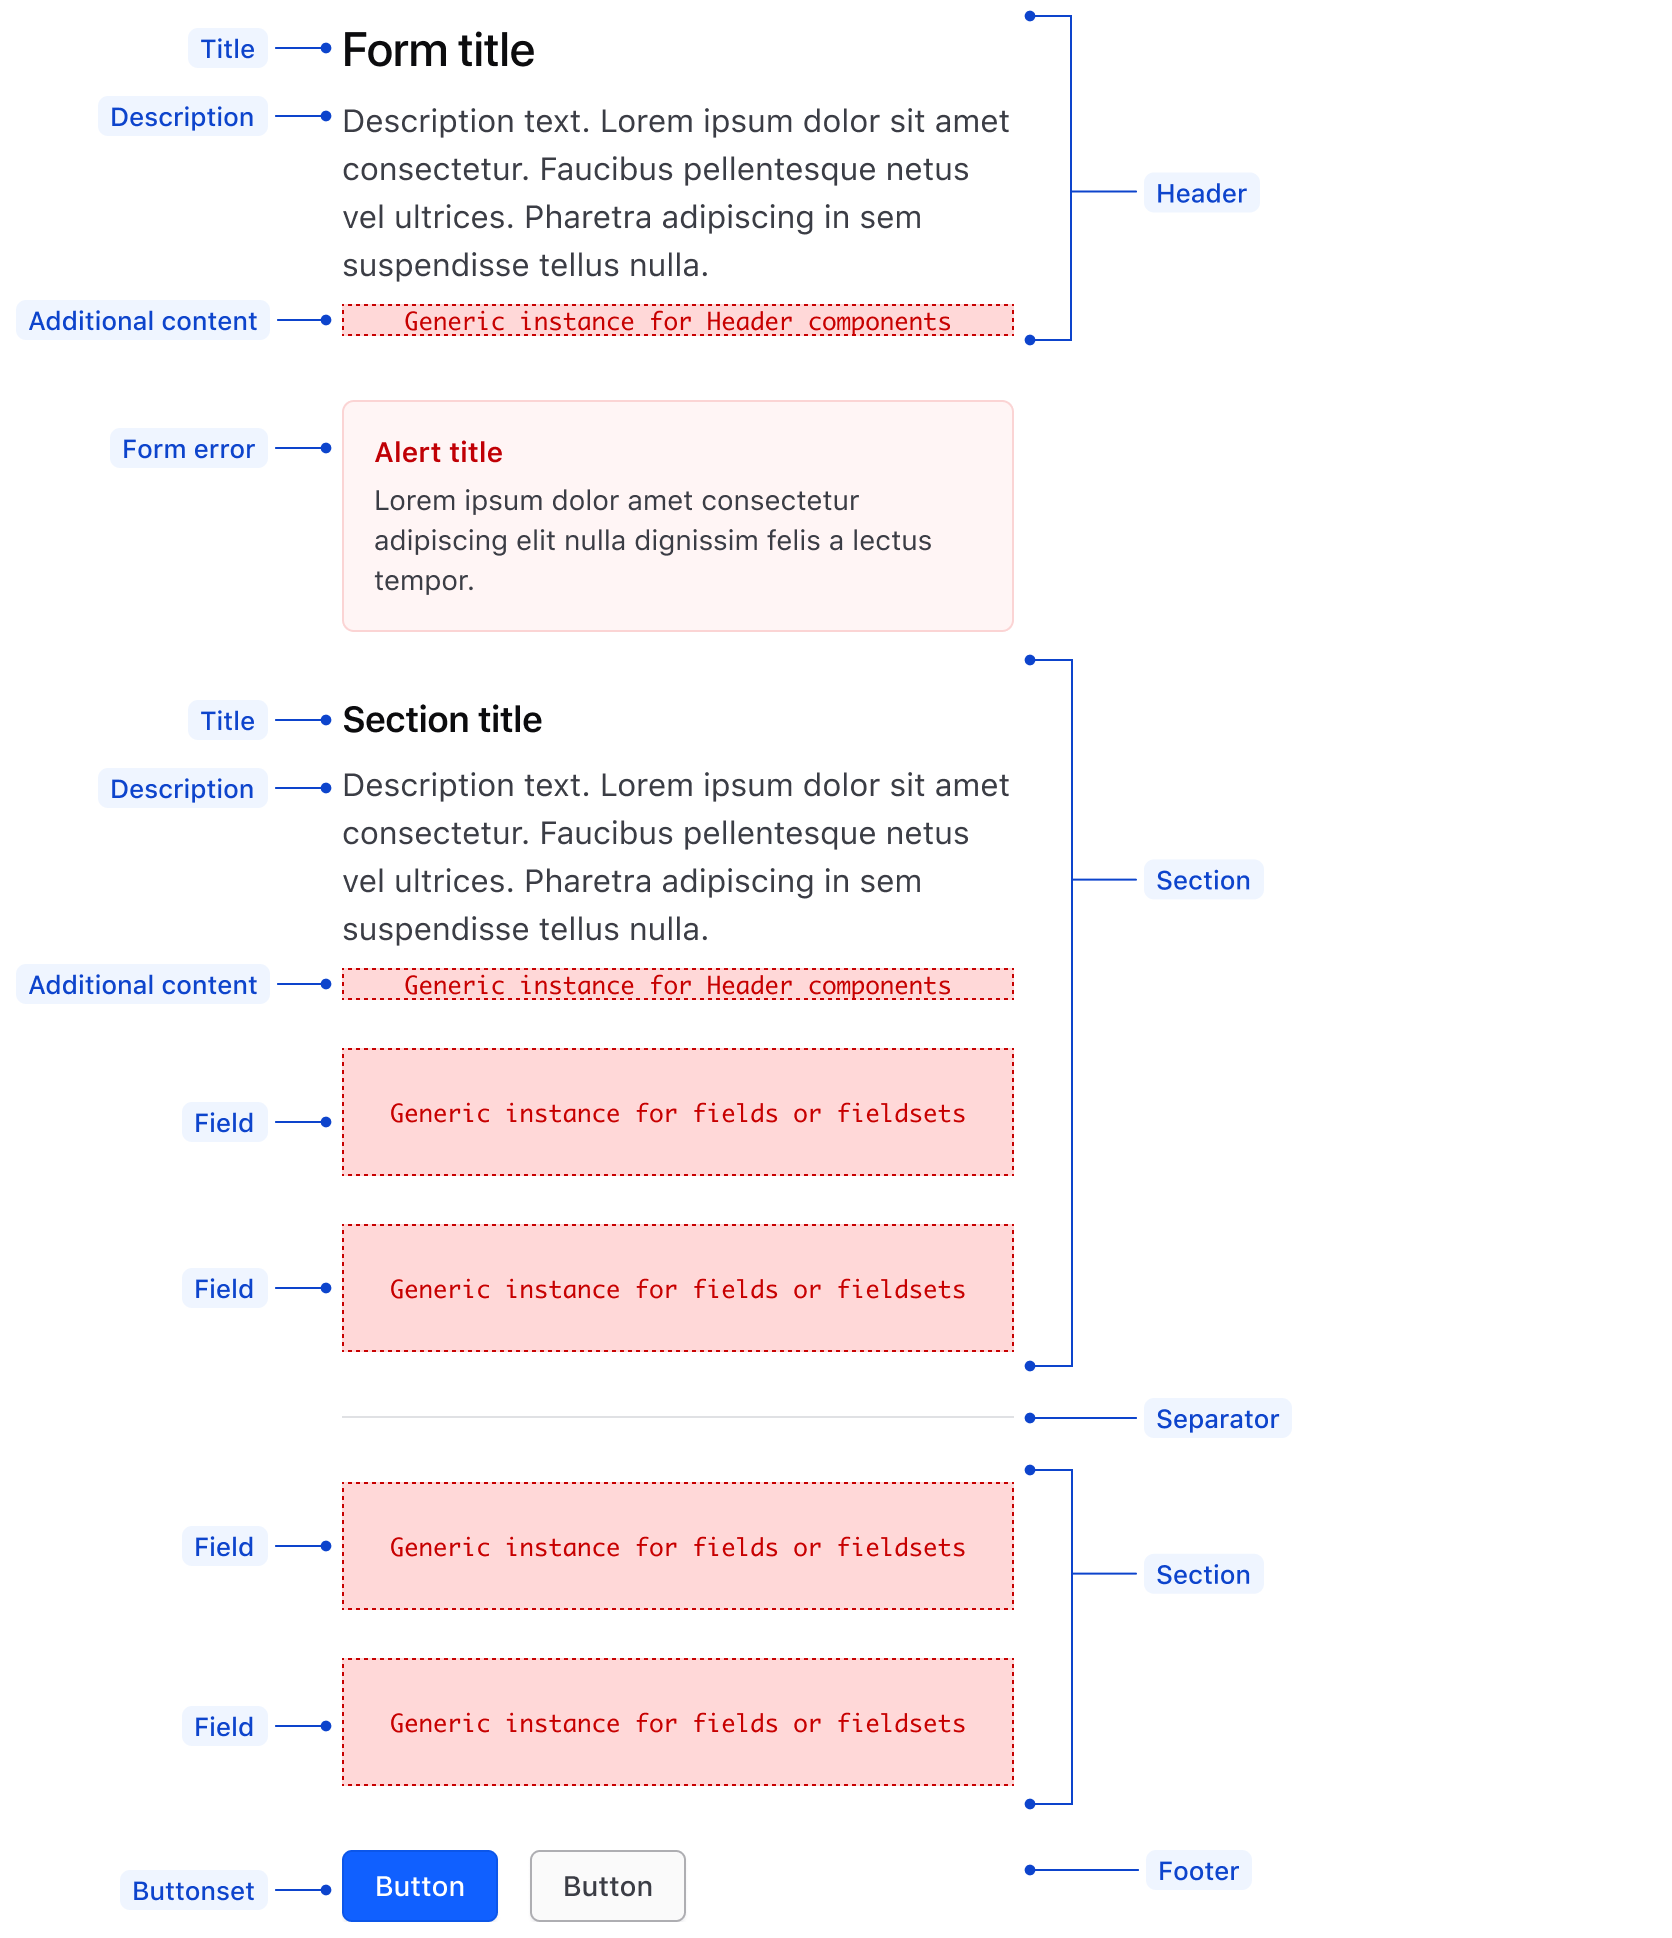
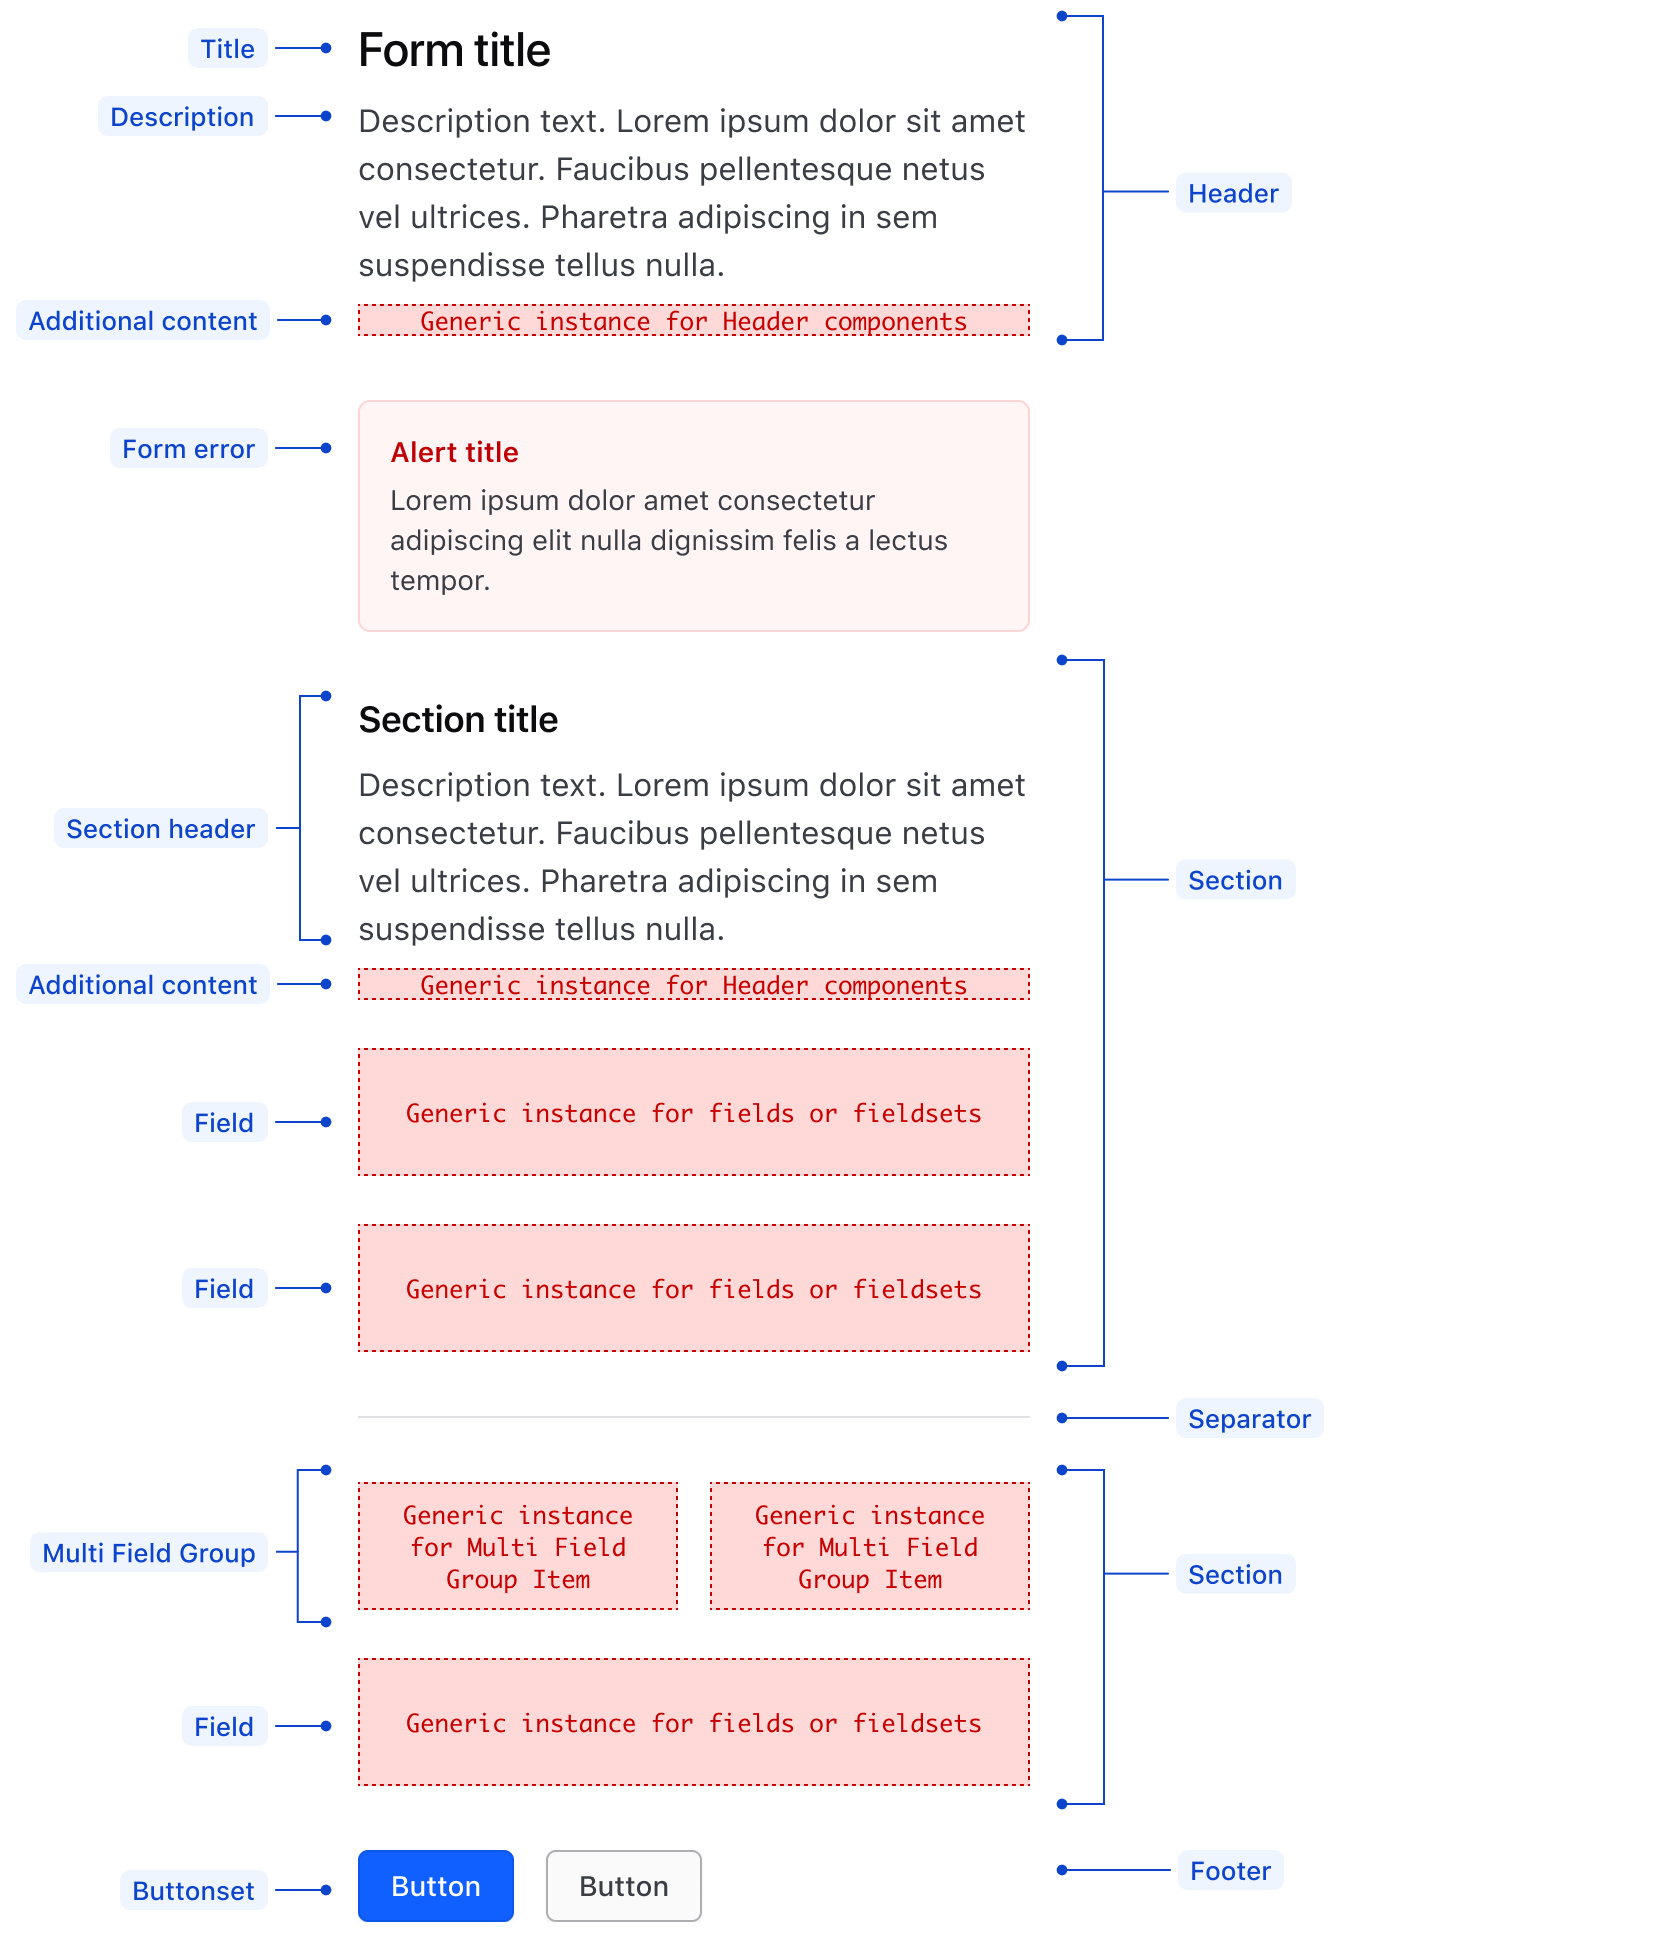
Updates from PR feedback

diff --git a/website/docs/components/form/layout/partials/guidelines/guidelines.md b/website/docs/components/form/layout/partials/guidelines/guidelines.md
@@ -15,7 +15,7 @@ The Form component serves as the container for all Form layout components and fo
 
 ## Single column layout
 
-The Form component ensures a consistent and streamlined user experience through the use of a single-column layout. Multi-column layouts can disrupt the visual flow and reading order of fields which can result in missed inputs and increased friction. Multiple fields can be places in a row only when grouping related inputs improves the user experience. See [Section Multi Field Group](/components/form/layout#form-section-multi-field-group)
+Multi-column layouts can disrupt the visual flow and reading order of fields which can result in missed inputs and increased friction. Multiple fields can be places in a row only when grouping related inputs improves the user experience. See [Section Multi Field Group](/components/form/layout#form-section-multi-field-group)
 
 ![The anatomy of the Form layout, indicating the header, sections, separator, and actions](/assets/components/form/layout/form-anatomy.png)
 

diff --git a/website/docs/components/form/layout/partials/specifications/anatomy.md b/website/docs/components/form/layout/partials/specifications/anatomy.md
@@ -6,7 +6,7 @@
 |------------------|-------------------------------------------------|
 | Title            | Optional                                        |
 | Description      | Optional                                        |
-| Additional content | Optional                                      |
+| Section | Consists of multiple content types (text, fields) and groups content                                      |
 | Form error       | Optional                                        |
 | Field            | Required, at least one per form                 |
 | Separator        | Optional                                        |

diff --git a/website/docs/patterns/form-patterns/partials/guidelines/guidelines.md b/website/docs/patterns/form-patterns/partials/guidelines/guidelines.md
@@ -187,13 +187,6 @@ Using sections based on the relationship between fields can make a longer form s
 
 Use separators to break up different types of content and categories within a form. Only use separators between sections, not between fields.
 
-!!! Do
-
-Include a 32px gap between the last field and the button set or actions.
-
-![Spacing using separators](/assets/patterns/form-patterns/divider-spacing-do.png =500x*)
-!!!
-
 !!! Dont
 
 Don’t use separators at the end of the last section between the fields and the button set or actions.

diff --git a/website/docs/patterns/form-patterns/partials/specifications/anatomy.md b/website/docs/patterns/form-patterns/partials/specifications/anatomy.md
@@ -15,5 +15,5 @@ Elements and content within a form are variable but can be broken down into sect
 
 !!! Info
 
-Helios does not currently publish any components to assist with layout and organization within forms. Rather, this anatomy is meant to establish a common language for discussing the elements within a form.
+Using [Form Layout](/components/form/layout) will set up the spacing and structure of a form as a helper to implement this guidance.
 !!!
